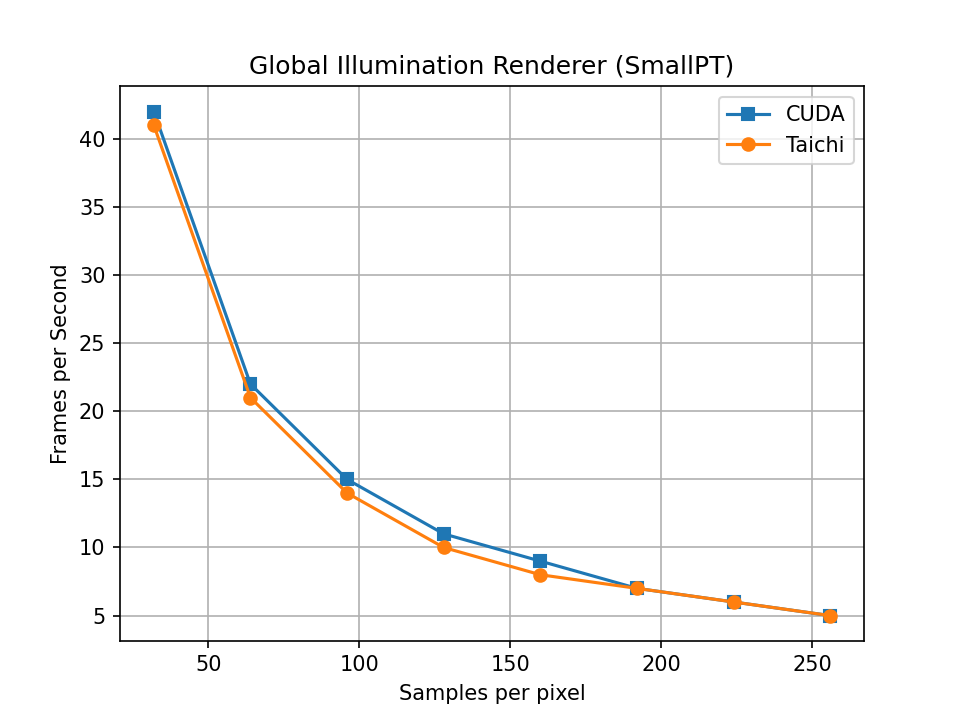
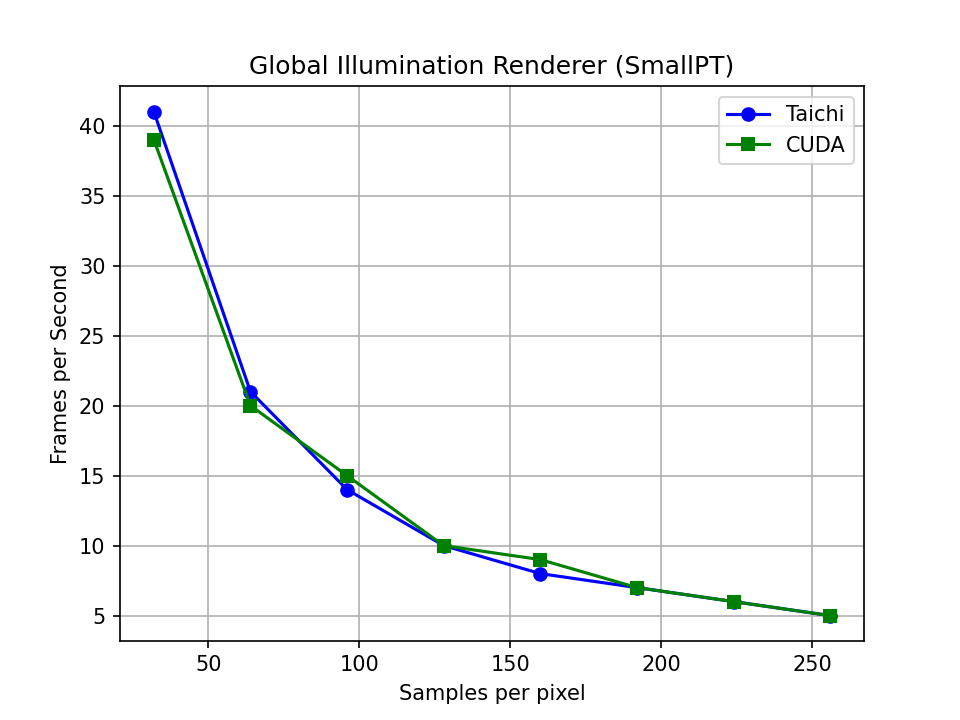
Update plot color

diff --git a/smallpt/plot_benchmark.py b/smallpt/plot_benchmark.py
@@ -27,14 +27,14 @@ def extract_particles(results):
 
 def plot_line(cuda_results, taichi_results):
     plt.figure()
-    x = extract_particles(cuda_results["cuda_baseline"])
-    plt.plot(x, extract_perf(cuda_results["cuda_baseline"]), marker='s')
-    plt.plot(x, extract_perf(taichi_results["taichi_baseline"]), marker='o')
+    x = extract_particles(taichi_results["taichi_baseline"])
+    plt.plot(x, extract_perf(taichi_results["taichi_baseline"]), marker='o', color='blue')
+    plt.plot(x, extract_perf(cuda_results["cuda_baseline"]), marker='s', color='green')
 
     plt.grid('minor')
     plt.xlabel("Samples per pixel")
     plt.ylabel("Frames per Second")
-    plt.legend(["CUDA", "Taichi"], loc='upper right')
+    plt.legend(["Taichi", "CUDA"], loc='upper right')
     plt.title("Global Illumination Renderer (SmallPT)")
     plt.savefig("fig/bench.png", dpi=150)
 
